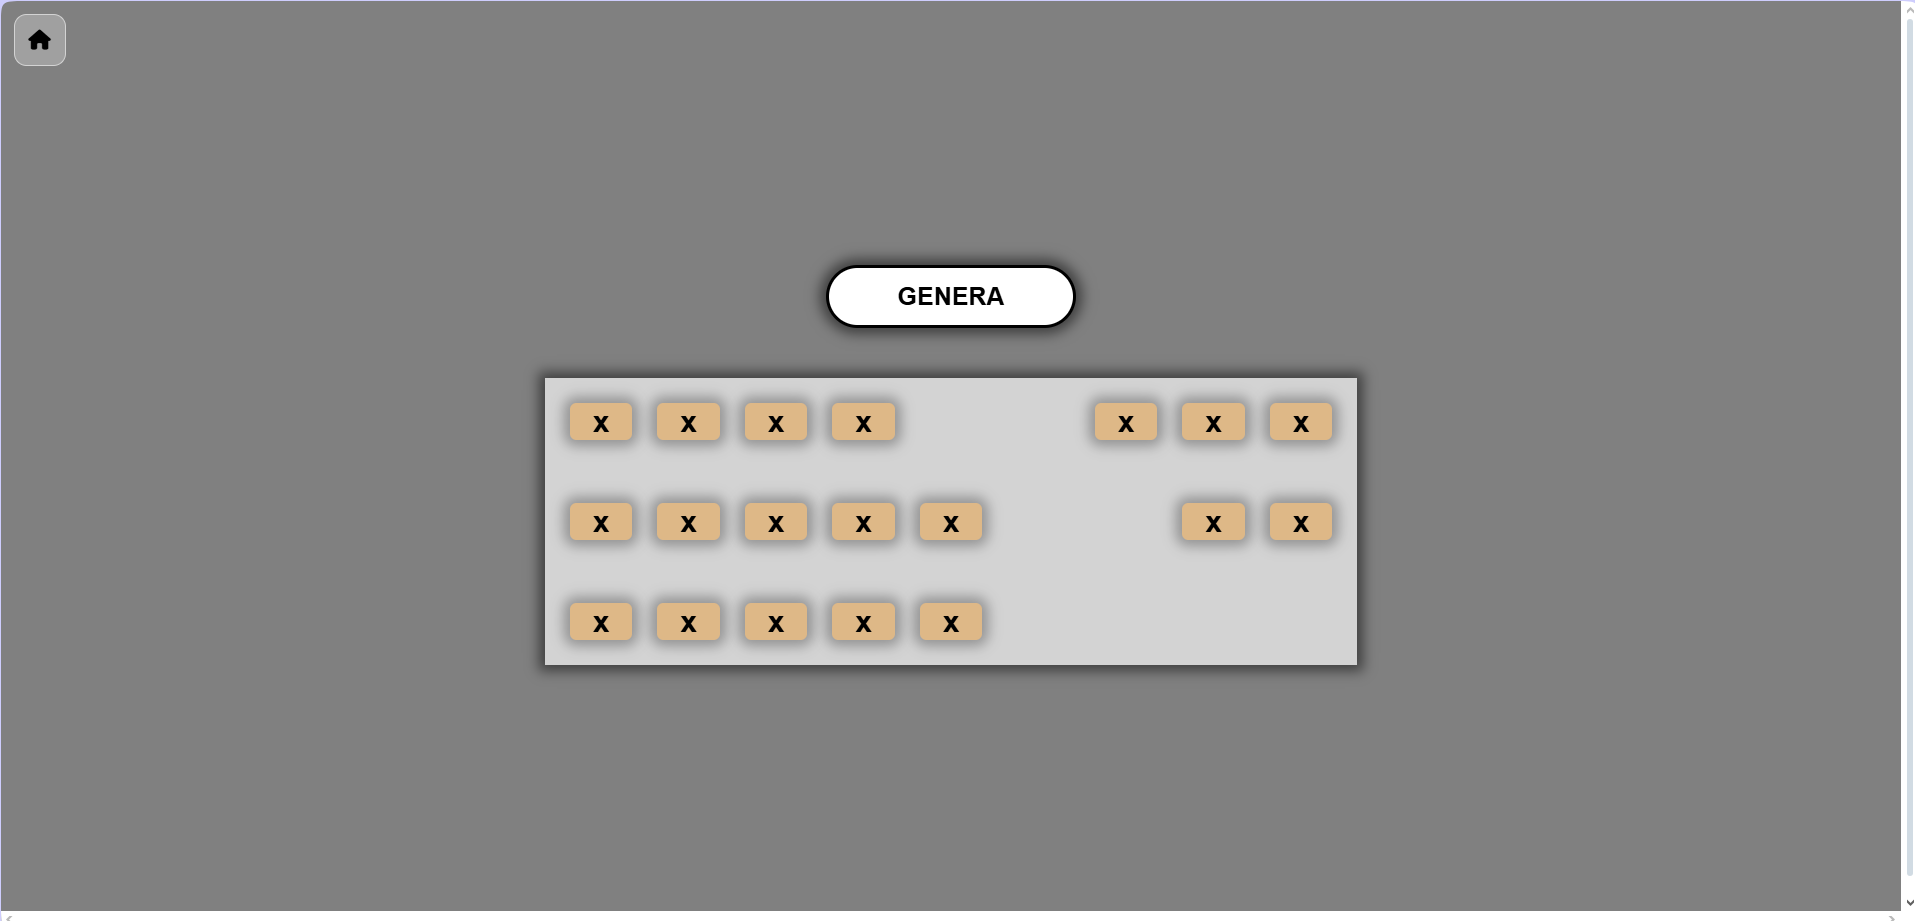
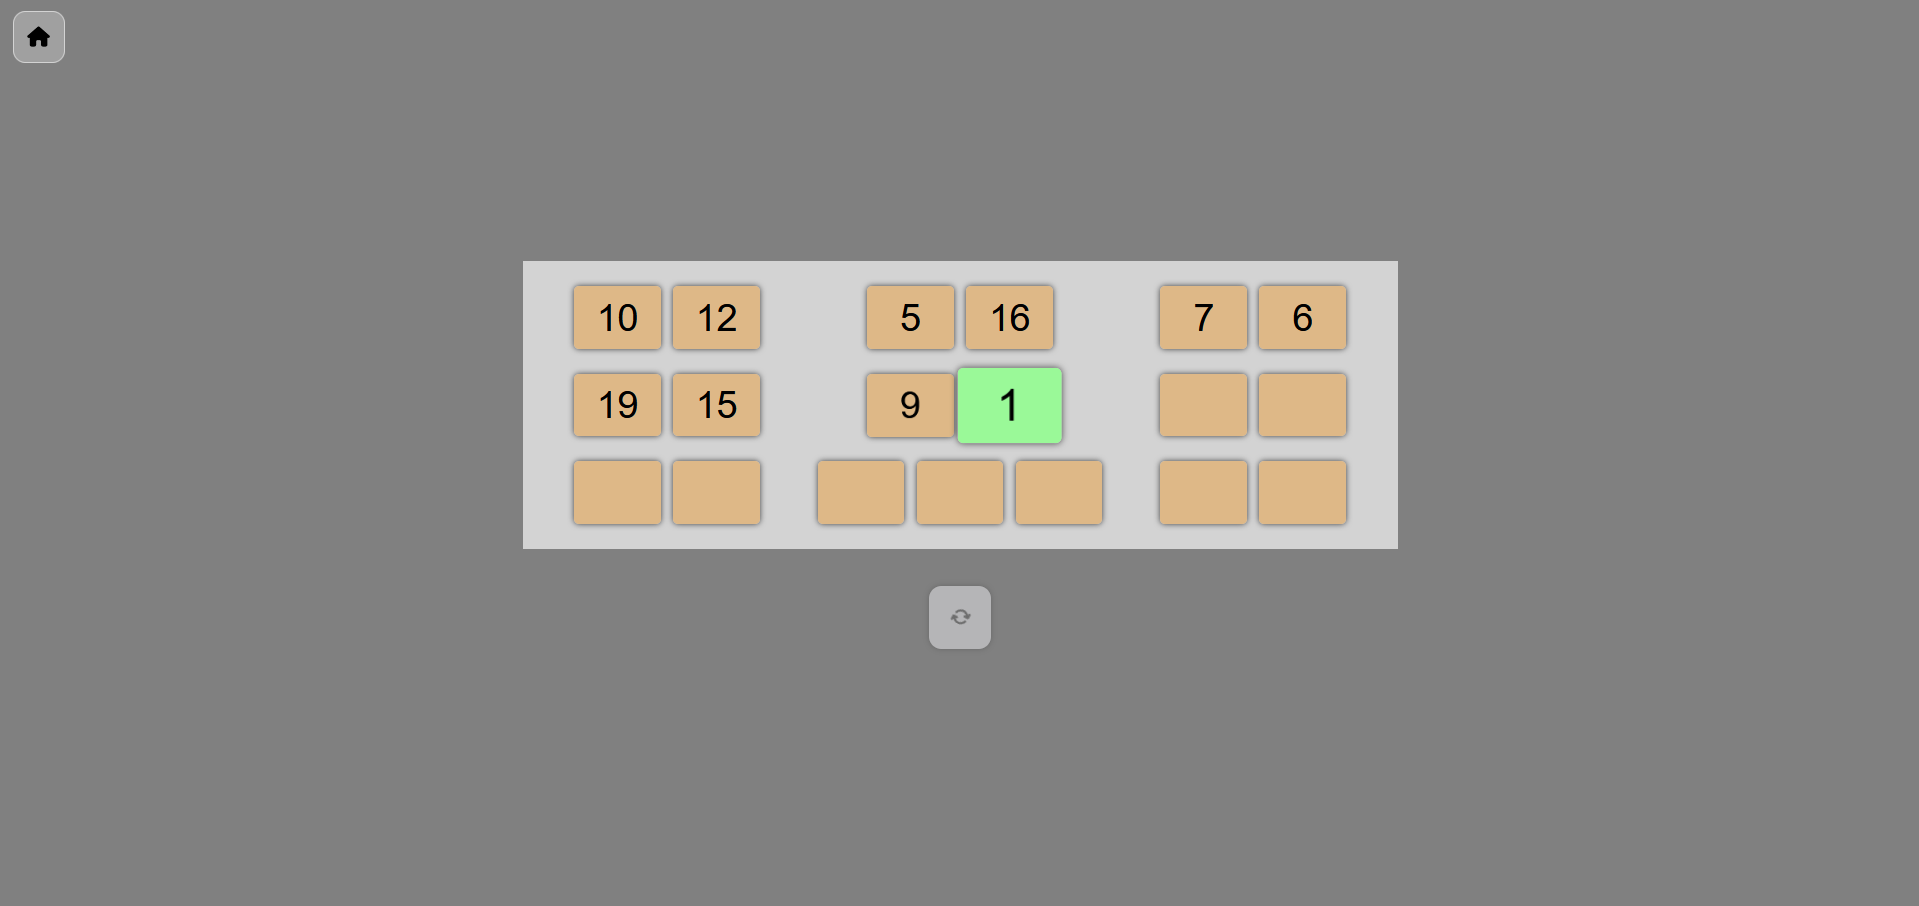
Add files via upload

Changed region(s): [[0.2465, 0.2781, 0.7394, 0.7417], [0.0, 0.0, 1.0, 1.0], [0.0, 0.0, 0.0308, 0.0618]]

diff --git a/apps/banchi/index.html b/apps/banchi/index.html
@@ -5,7 +5,7 @@
       <meta name="viewport" content="width=device-width, initial-scale=1.0">
       <script src='https://kit.fontawesome.com/55c134a797.js' crossorigin='anonymous'></script>
       
-      <title>banchi v2</title>
+      <title>banchi</title>
 
       <style>
 
@@ -31,6 +31,8 @@
                   border-radius: 10px;
                   box-shadow: 0 0 5px rgba(0, 0, 0, 0.2);
                   cursor: pointer;
+                  position: relative;
+                  transition: all 0.3 ease;
             }
             .container {
                   width: 90%;
@@ -64,6 +66,22 @@
                   display: flex;
                   justify-content: center;
                   align-items: center;
+            }
+
+            .pulsa {
+                  animation: pulsa 0.5s ease;
+            }
+            .iAnim {
+                  animation: iAnim 1.4s linear infinite;
+            }
+            @keyframes pulsa {
+                  0% {transform: scale(1)}
+                  50% {transform: scale(1.2); background-color: palegreen;}
+                  100% {transform: scale(1)}
+            }
+            @keyframes iAnim {
+                  0% {transform: rotate(0deg)}
+                  100% {transform: rotate(360deg);}
             }
 
 
@@ -132,8 +150,11 @@
             </div>
       </div>
 
-      <button onclick="assegnaPosti()"><i class="fa-solid fa-arrows-rotate"></i></button>
-
+      <button onclick="assegnaPosti()">
+            <div class="iContainer" style="height: 100%; width: 100%; line-height: 50px; position: absolute; top: 0; left: 0;">
+                  <i class="fa-solid fa-arrows-rotate"></i>
+            </div>
+            </button>
 
       <script src='../../homePageButton.js'></script>
       <script src='https://kit.fontawesome.com/55c134a797.js' crossorigin='anonymous'></script>
@@ -144,30 +165,53 @@
 
       
       function assegnaPosti() {
+            document.querySelector('button').disabled = true;
+            document.querySelectorAll('.banco').forEach(banco => {
+                  banco.textContent = '';
+            });
+
+
+            var intervallo = 300; // intervallo in ms tra ogni scomparsa
+     
+
+            document.querySelector('.iContainer').classList.add('iAnim');
+            setTimeout(() => {
+                  document.querySelector('.iContainer').classList.remove('iAnim');
+                  document.querySelector('button').disabled = false;
+            }, intervallo * 19);
+
+            
+
 
             var studenti = [];
-
+            
             const totaleStudenti = 19;
-
+            
             for (let i = 0; i < totaleStudenti; i++) {
                   studenti.push(i + 1);
             }
 
             const ordineCasuale = [...studenti];
-
+            
             for (let i = ordineCasuale.length -1; i > 0; i--) {
                   const j = Math.floor(Math.random() * (i + 1));
                   [ordineCasuale[i], ordineCasuale[j]] = [ordineCasuale[j], ordineCasuale[i]];
             }
-
+            
             console.log(ordineCasuale);
-
-
+            
+            
             const banchi = document.querySelectorAll('.banco');
 
             banchi.forEach((banco, index) => {
-
-                  banco.textContent = ordineCasuale[index] || '';
+                  
+                  setTimeout(() => {
+                        banco.classList.add('pulsa');
+                        banco.textContent = ordineCasuale[index] || '';
+                        setTimeout(() => {
+                        banco.classList.remove('pulsa');
+                        }, 500);
+                  }, index * intervallo);
 
             });
       }
